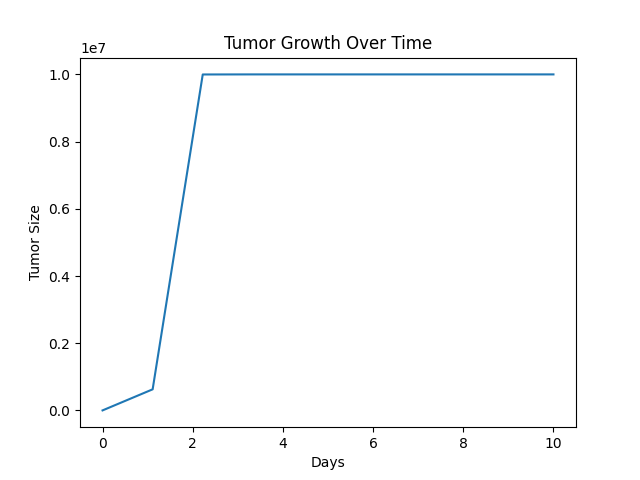
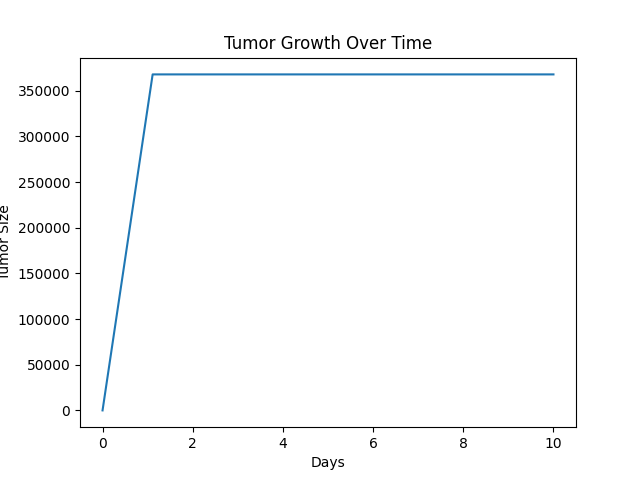
fix
fixing naming

diff --git a/tempCodeRunnerFile.py b/tempCodeRunnerFile.py
@@ -1,101 +1,34 @@
-import pandas as pd
+from ui import get_user_inputs
+from simulation import predict_tumor_size
+from visualizationvectorized import visualize_tumor_growth, load_organ_model
+from tumor_data import TUMOR_TYPES
 import numpy as np
-from scipy.optimize import curve_fit
 import matplotlib.pyplot as plt
-from sklearn.metrics import mean_squared_error, r2_score
 
-# Load the Excel file
-file_path = 'tumorgrowth.xlsx'  # Replace with your file path
-tumor_data = pd.ExcelFile(file_path)
+def main():
+    user_inputs = get_user_inputs(TUMOR_TYPES)
+    if not user_inputs:
+        print("Error: Missing user inputs!")
+        return
 
-# Read the data from the relevant sheet
-data = tumor_data.parse("OriginalData")
+    N0 = user_inputs["N0"]
+    r = user_inputs["r"]
+    organ = user_inputs["organ"]
+    tumor_type = user_inputs["tumor_type"]
+    logic_model = user_inputs["growth_model"]
 
-# Clean column names by stripping extra spaces
-data.columns = data.columns.str.strip()
+    K = TUMOR_TYPES[organ][tumor_type]["carrying_capacity"]
+    t = np.linspace(0, 10, 10)
+    tumor_sizes = predict_tumor_size(N0, r, K, logic_model , t)
 
-# Rename the 'Unnamed: 0' column to 'Day'
-data.rename(columns={'Unnamed: 0': 'Day'}, inplace=True)
+    organ_model = load_organ_model(organ)
+    visualize_tumor_growth(tumor_sizes / K, organ_model, max_growth=1.0)
 
-# Print the column names to verify
-print("Columns in data:", data.columns)
-
-# Extract the Day column and the control values for each sample (columns 2 to 8)
-control_data = data[['Day', 'Unnamed: 2', 'Unnamed: 3', 'Unnamed: 4', 'Unnamed: 5', 'Unnamed: 6', 'Unnamed: 7', 'Unnamed: 8']]
-
-# Convert Day to numeric and drop rows with NaN values
-control_data.loc[:, 'Day'] = pd.to_numeric(control_data['Day'], errors='coerce')
-control_data = control_data.dropna(subset=['Day'])
-
-# Print the first few rows of the cleaned data
-print(control_data.head())
-
-# Define the Logistic and Gompertz models
-def logistic_growth_fit(t, N0, r, K):
-    t = np.asarray(t)  # Ensure t is treated as an array
-    return K / (1 + ((K - N0) / N0) * np.exp(-r * t))
-
-def gompertz_growth_fit(t, N0, r, K):
-    t = np.asarray(t)  # Ensure t is treated as an array
-    return K * np.exp(-np.exp(r * (np.log(K / N0) - t)))
-
-# List of sample columns (from 'Unnamed: 2' to 'Unnamed: 8')
-samples = ['Unnamed: 2', 'Unnamed: 3', 'Unnamed: 4', 'Unnamed: 5', 'Unnamed: 6', 'Unnamed: 7', 'Unnamed: 8']
-
-# Loop through each sample and fit the models
-for sample in samples:
-    # Extract the tumor size values for the current sample
-    sample_data = control_data[['Day', sample]].dropna()  # Remove rows with NaN values
-    days = sample_data['Day'].values
-    control_values = sample_data[sample].values
-    
-    # Ensure 'days' is an array of floats
-    days = np.asarray(days, dtype=np.float64)
-
-    # Initial guesses for the model parameters
-    initial_N0 = control_values[0]  # Initial tumor size (start of the data)
-    initial_K = max(control_values)  # Maximum size of the tumor
-    initial_r = (np.log(control_values[-1]) - np.log(control_values[0])) / (days[-1] - days[0])  # Estimate growth rate
-    
-    # Fit the Logistic model
-    try:
-        logistic_params, _ = curve_fit(logistic_growth_fit, days, control_values, p0=[initial_N0, initial_r, initial_K], maxfev=10000)
-    except RuntimeError as e:
-        print(f"Logistic fit failed for Sample {sample}: {e}")
-        continue
-    
-    # Fit the Gompertz model
-    try:
-        gompertz_params, _ = curve_fit(gompertz_growth_fit, days, control_values, p0=[initial_N0, initial_r, initial_K], maxfev=10000)
-    except RuntimeError as e:
-        print(f"Gompertz fit failed for Sample {sample}: {e}")
-        continue
-    
-    # Generate a smooth curve for predictions
-    continuous_days = np.linspace(min(days), max(days), 500)
-    logistic_values = logistic_growth_fit(continuous_days, *logistic_params)
-    gompertz_values = gompertz_growth_fit(continuous_days, *gompertz_params)
-    
-    # Calculate R² and MSE for both models
-    logistic_r2 = r2_score(control_values, logistic_growth_fit(days, *logistic_params))
-    gompertz_r2 = r2_score(control_values, gompertz_growth_fit(days, *gompertz_params))
-    
-    logistic_mse = mean_squared_error(control_values, logistic_growth_fit(days, *logistic_params))
-    gompertz_mse = mean_squared_error(control_values, gompertz_growth_fit(days, *gompertz_params))
-    
-    # Print the results for comparison
-    print(f"Results for Sample {sample}:")
-    print(f"  Logistic Model R²: {logistic_r2:.4f}, MSE: {logistic_mse:.4f}")
-    print(f"  Gompertz Model R²: {gompertz_r2:.4f}, MSE: {gompertz_mse:.4f}")
-    
-    # Plot the data and the model fits
-    plt.figure(figsize=(10, 6))
-    plt.scatter(days, control_values, color='black', label=f"Control Data (Sample {sample})", zorder=5)
-    plt.plot(continuous_days, logistic_values, label="Logistic Model (Curve)", color='blue')
-    plt.plot(continuous_days, gompertz_values, label="Gompertz Model (Curve)", color='green')
+    plt.plot(t, tumor_sizes)
     plt.xlabel("Days")
     plt.ylabel("Tumor Size")
-    plt.title(f"Tumor Growth: Sample {sample} - Control Data vs Models")
-    plt.legend()
-    plt.grid()
-    plt.show()
+    plt.title("Tumor Growth Over Time")
+    plt.savefig("tumor_growth.png")
+
+if __name__ == "__main__":
+    main()

diff --git a/visualizationvectorized.py b/visualizationvectorized.py
@@ -16,10 +16,9 @@ def load_organ_model(organ):
 
 def grow_tumor_next_to_existing(organ_model, tumor_points, tumor_size, max_growth):
     bounds = organ_model.bounds
-    num_points = 10  # Reduced number of points per iteration to speed up the process
+    num_points = 10  
     new_tumor_points = []
 
-    # If there are existing tumor points, spread out from them
     if tumor_points.shape[0] > 0:
         for point in tumor_points:
             new_points = np.random.uniform(
@@ -27,12 +26,10 @@ def grow_tumor_next_to_existing(organ_model, tumor_points, tumor_size, max_growt
                 high=(point[0] + max_growth, point[1] + max_growth, point[2] + max_growth),
                 size=(num_points, 3)
             )
-            # Filter points inside the organ's boundaries
             for new_point in new_points:
                 if bounds[0] <= new_point[0] <= bounds[1] and bounds[2] <= new_point[1] <= bounds[3] and bounds[4] <= new_point[2] <= bounds[5]:
                     new_tumor_points.append(new_point)
     
-    # If there are no existing tumor points, start with random points within the organ
     if len(new_tumor_points) == 0:
         new_tumor_points = np.random.uniform(
             low=(bounds[0], bounds[2], bounds[4]),
@@ -42,29 +39,28 @@ def grow_tumor_next_to_existing(organ_model, tumor_points, tumor_size, max_growt
     
     new_tumor_points = np.array(new_tumor_points)
 
-    # Use KDTree to ensure new points are inside the organ surface, but only query a subset of points
+
     if new_tumor_points.shape[0] > 0:
         organ_surface = organ_model.points
         kdtree = KDTree(organ_surface)
-        distances, _ = kdtree.query(new_tumor_points, k=10)  # Limit query to 10 nearest neighbors
+        distances, _ = kdtree.query(new_tumor_points, k=10)  
         growth_threshold = max_growth * (tumor_size / 2)
 
-        inside_mask = distances[:, 0] <= growth_threshold  # Check if within the growth threshold
+        inside_mask = distances[:, 0] <= growth_threshold  
 
         tumor_points_inside = new_tumor_points[inside_mask]
         return tumor_points_inside
     else:
-        return np.array([])  # Return empty if no tumor points are generated
+        return np.array([])
 
 def visualize_tumor_growth(tumor_sizes, organ_model, max_growth):
     """Interactive visualization of tumor growth over time."""
     plotter = pv.Plotter()
     plotter.add_mesh(organ_model, color="lightblue", opacity=0.2, label="Organ")
 
-    tumor_points = np.array([]).reshape(0, 3)  # Start with no tumor points
+    tumor_points = np.array([]).reshape(0, 3)  
 
     for size in tumor_sizes:
-        # Grow the tumor by adding new points near the existing ones
         tumor_points_inside = grow_tumor_next_to_existing(organ_model, tumor_points, size, max_growth)
         tumor_points = np.vstack([tumor_points, tumor_points_inside])  # Add new points to the tumor
 

diff --git a/main.py b/main.py
@@ -1,9 +1,9 @@
-import numpy as np
-import matplotlib.pyplot as plt
 from ui import get_user_inputs
 from simulation import predict_tumor_size
-from visualizationvectorized import visualize_tumor_growth, load_organ_model, normalize_tumor_sizes
+from visualizationvectorized import visualize_tumor_growth, load_organ_model
 from tumor_data import TUMOR_TYPES
+import numpy as np
+import matplotlib.pyplot as plt
 
 def main():
     user_inputs = get_user_inputs(TUMOR_TYPES)
@@ -15,31 +15,15 @@ def main():
     r = user_inputs["r"]
     organ = user_inputs["organ"]
     tumor_type = user_inputs["tumor_type"]
-
-    # Validate inputs
-    if N0 <= 0 or r <= 0:
-        raise ValueError("Initial size and growth rate must be positive")
+    logic_model = user_inputs["growth_model"]
 
     K = TUMOR_TYPES[organ][tumor_type]["carrying_capacity"]
-    print(f"N0: {N0}, r: {r}, K: {K}")
+    t = np.linspace(0, 10, 10)
+    tumor_sizes = predict_tumor_size(N0, r, K, logic_model , t)
 
-    # Simulate growth over 30 days
-    t = np.linspace(0, 30, 30)
-    tumor_sizes = predict_tumor_size(N0, r, K, "Gompertz", t)
-
-    # Load organ model
     organ_model = load_organ_model(organ)
+    visualize_tumor_growth(tumor_sizes / K, organ_model, max_growth=1.0)
 
-    # Normalize tumor sizes based on organ volume
-    normalized_sizes = normalize_tumor_sizes(tumor_sizes, organ_model)
-
-    print("Original Tumor Sizes:", tumor_sizes)
-    print("Normalized Tumor Sizes:", normalized_sizes)
-
-    # Pass normalized sizes to visualization
-    visualize_tumor_growth(normalized_sizes, organ_model, max_growth=2.0)
-
-    # Optional: Save tumor growth graph for reference
     plt.plot(t, tumor_sizes)
     plt.xlabel("Days")
     plt.ylabel("Tumor Size")

diff --git a/oldddd.py b/oldddd.py
@@ -1,0 +1,50 @@
+import numpy as np
+import matplotlib.pyplot as plt
+from ui import get_user_inputs
+from simulation import predict_tumor_size
+from visualizationvectorized import visualize_tumor_growth, load_organ_model, normalize_tumor_sizes
+from tumor_data import TUMOR_TYPES
+
+def main():
+    user_inputs = get_user_inputs(TUMOR_TYPES)
+    if not user_inputs:
+        print("Error: Missing user inputs!")
+        return
+
+    N0 = user_inputs["N0"]
+    r = user_inputs["r"]
+    organ = user_inputs["organ"]
+    tumor_type = user_inputs["tumor_type"]
+
+    # Validate inputs
+    if N0 <= 0 or r <= 0:
+        raise ValueError("Initial size and growth rate must be positive")
+
+    K = TUMOR_TYPES[organ][tumor_type]["carrying_capacity"]
+    print(f"N0: {N0}, r: {r}, K: {K}")
+
+    # Simulate growth over 30 days
+    t = np.linspace(0, 30, 30)
+    tumor_sizes = predict_tumor_size(N0, r, K, "Gompertz", t)
+
+    # Load organ model
+    organ_model = load_organ_model(organ)
+
+    # Normalize tumor sizes based on organ volume
+    normalized_sizes = normalize_tumor_sizes(tumor_sizes, organ_model)
+
+    print("Original Tumor Sizes:", tumor_sizes)
+    print("Normalized Tumor Sizes:", normalized_sizes)
+
+    # Pass normalized sizes to visualization
+    visualize_tumor_growth(normalized_sizes, organ_model, max_growth=2.0)
+
+    # Optional: Save tumor growth graph for reference
+    plt.plot(t, tumor_sizes)
+    plt.xlabel("Days")
+    plt.ylabel("Tumor Size")
+    plt.title("Tumor Growth Over Time")
+    plt.savefig("tumor_growth.png")
+
+if __name__ == "__main__":
+    main()
